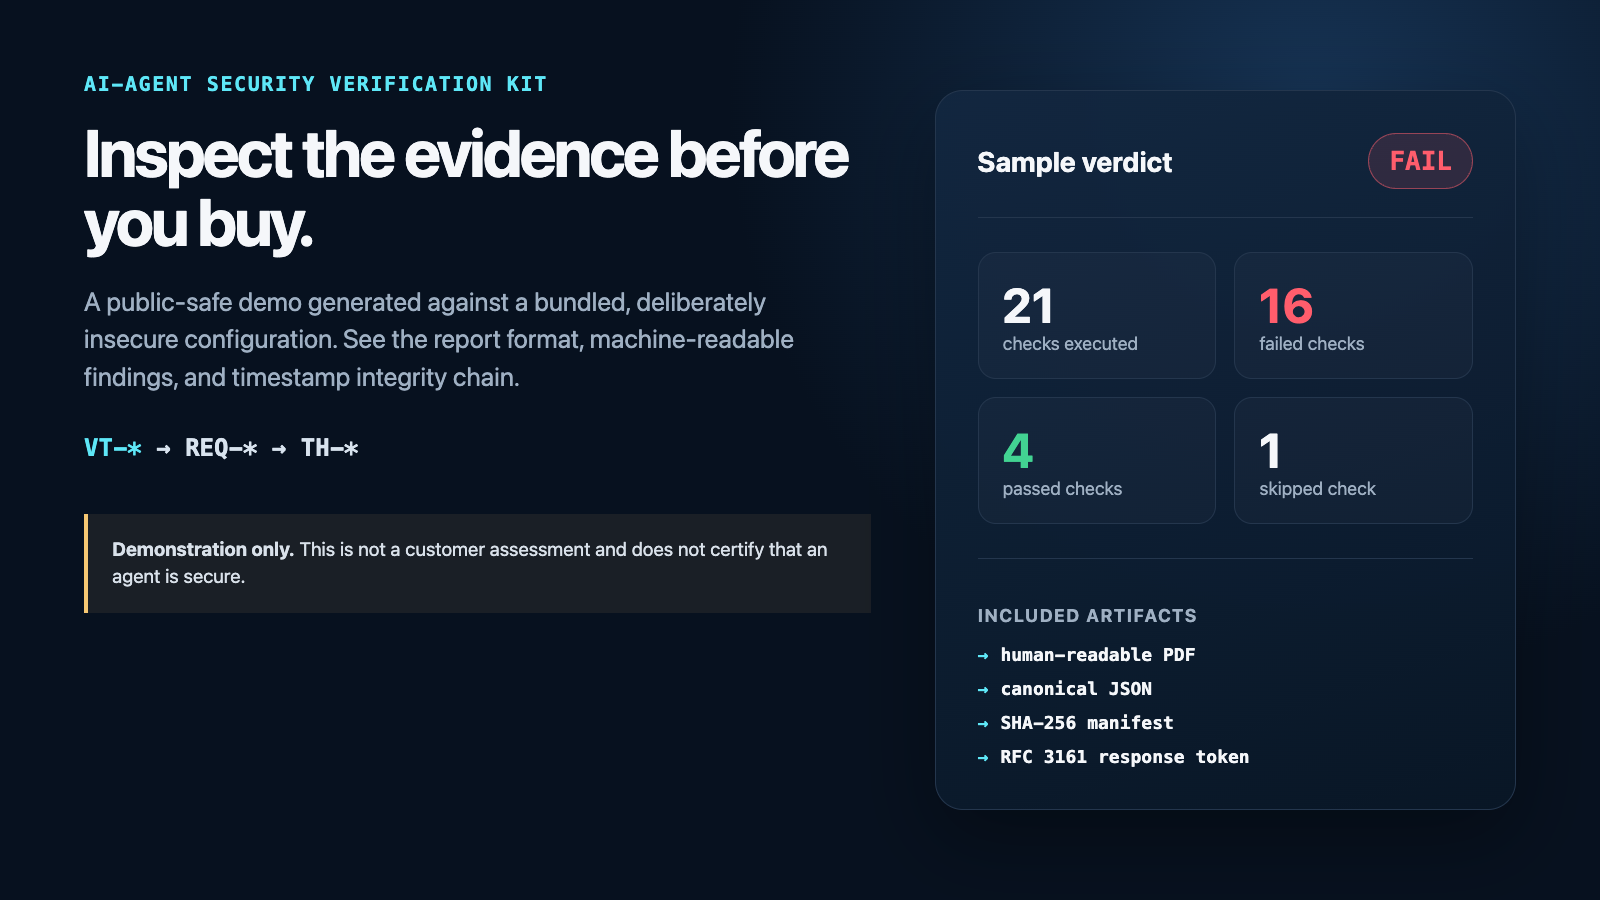
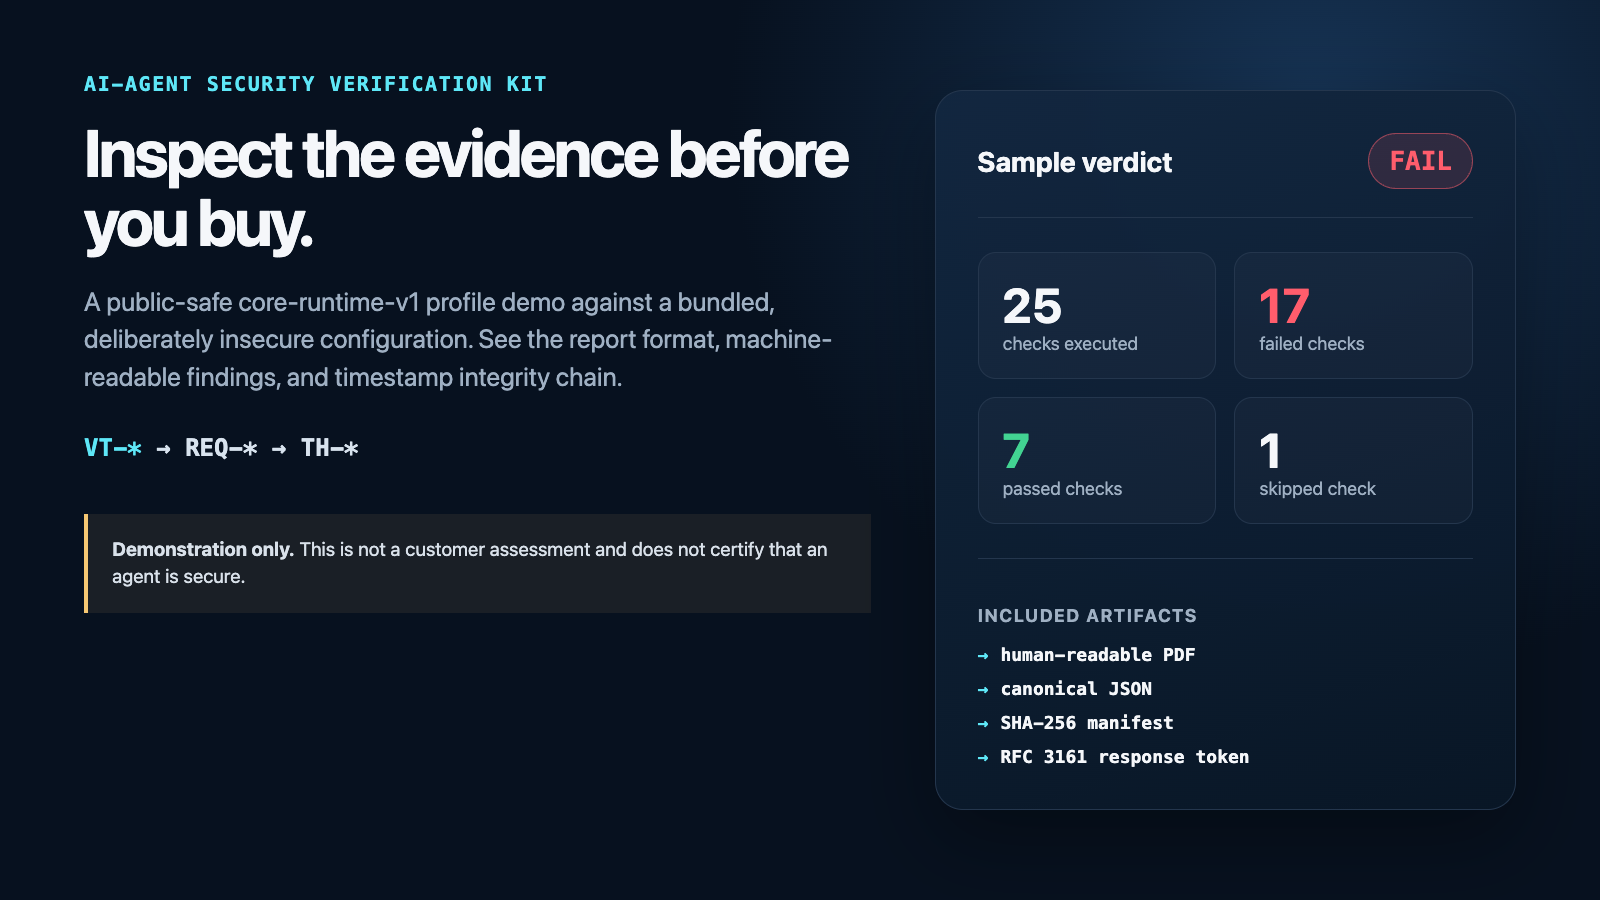
fix: make evidence scope and IDs verifiable

diff --git a/tests/agent-security-reference.test.ts b/tests/agent-security-reference.test.ts
@@ -41,7 +41,7 @@ describe('AI Agent Security Reference Hub', () => {
   it('publishes the verified sample archive and manifest references', () => {
     const zipPath = join(root, 'public/agent-security/evidence-demo/AI-Agent-Security-Sample-Evidence.zip');
     const digest = createHash('sha256').update(readFileSync(zipPath)).digest('hex');
[2 lines of base64/hex data omitted]
 
     const names = execFileSync('unzip', ['-Z1', zipPath], { encoding: 'utf8' });
     expect(names).toContain('sample-evidence-fail/sample-verification-fail.json');
@@ -52,20 +52,20 @@ describe('AI Agent Security Reference Hub', () => {
     const jsonBytes = execFileSync('unzip', ['-p', zipPath, 'sample-evidence-fail/sample-verification-fail.json']);
     const artifact = JSON.parse(jsonBytes.toString('utf8'));
     const ids = artifact.results.map((result: { id: string }) => result.id);
-    expect(ids).toHaveLength(21);
-    expect(new Set(ids).size).toBe(21);
-    expect(artifact.summary.counts).toEqual({ PASS: 4, FAIL: 16, SKIP: 1, ERROR: 0 });
+    expect(ids).toHaveLength(25);
+    expect(new Set(ids).size).toBe(25);
+    expect(artifact.summary.counts).toEqual({ PASS: 7, FAIL: 17, SKIP: 1, ERROR: 0 });
 
     const byTitle = new Map(artifact.results.map((result: { title: string }) => [result.title, result]));
-    expect(byTitle.get("Code tool 'shell' runs sandboxed")).toMatchObject({ id: 'VT-S-012B-002', requirement: 'REQ-012', threat: 'TH-02' });
-    expect(byTitle.get("High-impact tool 'wire-transfer' approval shows concrete effects")).toMatchObject({ id: 'VT-S-015A-003', requirement: 'REQ-015', threat: 'TH-02' });
+    expect(byTitle.get("Code tool 'shell' runs sandboxed")).toMatchObject({ id: 'VT-S-012B-SHELL', requirement: 'REQ-012', threat: 'TH-02' });
+    expect(byTitle.get("High-impact tool 'wire-transfer' approval shows concrete effects")).toMatchObject({ id: 'VT-S-015A-WIRE-TRANSFER', requirement: 'REQ-015', threat: 'TH-02' });
     expect(byTitle.get('Memory writes are privileged and reversible')).toMatchObject({ id: 'VT-S-022', requirement: 'REQ-022', threat: 'TH-04' });
     expect(byTitle.get('Webhook rejects a tampered body')).toMatchObject({ id: 'VT-D-011B', requirement: 'REQ-011', threat: 'TH-02' });
 
     const manifestText = execFileSync('unzip', ['-p', zipPath, 'sample-evidence-fail/sample-verification-fail.manifest.json'], { encoding: 'utf8' });
     const manifest = JSON.parse(manifestText);
     const jsonDigest = createHash('sha256').update(jsonBytes).digest('hex');
[2 lines of base64/hex data omitted]
     expect(manifest.report_json_sha256).toBe(jsonDigest);
     expect(manifest.report_json).toBe('sample-verification-fail.json');
     expect(manifest.timestamp.token_file).toBe('sample-verification-fail.tsr');
@@ -73,6 +73,9 @@ describe('AI Agent Security Reference Hub', () => {
     const readme = execFileSync('unzip', ['-p', zipPath, 'sample-evidence-fail/README.md'], { encoding: 'utf8' });
     expect(readme).toContain('Input configuration: not included');
     expect(readme).toContain('not a customer assessment');
+    expect(readme).toContain('core-runtime-v1');
+    expect(readme).toContain('https://freetsa.org/files/cacert.pem');
[1 lines of base64/hex data omitted]
   });
 
   it('keeps the checklist downloadable and local-only', () => {

diff --git a/src/assets/agent-security-evidence/findings.html b/src/assets/agent-security-evidence/findings.html
@@ -1,1 +1,1 @@
-<!doctype html><html lang="en"><head><meta charset="utf-8"><meta name="viewport" content="width=device-width,initial-scale=1"><title>Finding Traceability</title><style>:root{--bg:#07111f;--panel:#0d1b2d;--line:#24364d;--text:#f5f7fa;--muted:#9fb0c3;--fail:#ff5d6c;--cyan:#5ee7f7}*{box-sizing:border-box}body{margin:0;width:1600px;height:900px;background:linear-gradient(145deg,#06101d,#0d2036);color:var(--text);font-family:-apple-system,BlinkMacSystemFont,"Segoe UI",sans-serif;overflow:hidden}.wrap{padding:58px 72px}.eyebrow{color:var(--cyan);font:700 18px ui-monospace,SFMono-Regular,Menlo,monospace;letter-spacing:.08em;text-transform:uppercase}.top{display:flex;justify-content:space-between;align-items:end;margin:14px 0 34px}.top h1{font-size:52px;letter-spacing:-.035em;margin:0}.top p{color:var(--muted);font-size:20px;margin:0 0 5px}.table{border:1px solid var(--line);border-radius:20px;overflow:hidden;background:rgba(8,22,39,.8)}.row{display:grid;grid-template-columns:145px 115px 145px 145px 1fr;align-items:center;min-height:94px;border-bottom:1px solid var(--line)}.row:last-child{border-bottom:none}.row>div{padding:18px 20px}.head{min-height:58px;background:#132943;color:var(--muted);font:700 15px ui-monospace,SFMono-Regular,Menlo,monospace;text-transform:uppercase;letter-spacing:.06em}.mono{font:700 17px ui-monospace,SFMono-Regular,Menlo,monospace}.status{display:inline-block;color:var(--fail);background:rgba(255,93,108,.12);border:1px solid rgba(255,93,108,.45);padding:7px 12px;border-radius:999px}.finding strong{display:block;font-size:19px;margin-bottom:6px}.finding span{color:var(--muted);font-size:15px}.foot{display:flex;justify-content:space-between;margin-top:26px;color:var(--muted);font-size:17px}.foot b{color:var(--cyan)}</style></head><body><main class="wrap"><div class="eyebrow">Machine-readable finding traceability</div><div class="top"><h1>From a failed check to the threat it addresses.</h1><p>Excerpt from the canonical JSON result</p></div><section class="table"><div class="row head"><div>Test</div><div>Verdict</div><div>Requirement</div><div>Threat</div><div>Finding</div></div><div class="row"><div class="mono">VT-S-001</div><div><span class="status">FAIL</span></div><div class="mono">REQ-001</div><div class="mono">TH-05</div><div class="finding"><strong>Agent identity is distinct from the human</strong><span>agent is not marked distinct_from_human</span></div></div><div class="row"><div class="mono">VT-S-003B</div><div><span class="status">FAIL</span></div><div class="mono">REQ-003</div><div class="mono">TH-05</div><div class="finding"><strong>Agent credential scope is minimized</strong><span>scopes are unset, empty, or include a wildcard '*'</span></div></div><div class="row"><div class="mono">VT-S-051B</div><div><span class="status">FAIL</span></div><div class="mono">REQ-051</div><div class="mono">TH-06</div><div class="finding"><strong>Delegate scope is a subset of the parent</strong><span>delegation may create a privilege-laundering path</span></div></div><div class="row"><div class="mono">VT-S-012A-001</div><div><span class="status">FAIL</span></div><div class="mono">REQ-012</div><div class="mono">TH-08</div><div class="finding"><strong>Network tool has an egress allowlist</strong><span>network-capable tool has no declared allowlist</span></div></div></section><div class="foot"><span>Each result keeps stable identifiers for review and re-testing.</span><span><b>VT</b> → REQ → TH</span></div></main></body></html>
+<!doctype html><html lang="en"><head><meta charset="utf-8"><meta name="viewport" content="width=device-width,initial-scale=1"><title>Finding Traceability</title><style>:root{--bg:#07111f;--panel:#0d1b2d;--line:#24364d;--text:#f5f7fa;--muted:#9fb0c3;--fail:#ff5d6c;--cyan:#5ee7f7}*{box-sizing:border-box}body{margin:0;width:1600px;height:900px;background:linear-gradient(145deg,#06101d,#0d2036);color:var(--text);font-family:-apple-system,BlinkMacSystemFont,"Segoe UI",sans-serif;overflow:hidden}.wrap{padding:58px 72px}.eyebrow{color:var(--cyan);font:700 18px ui-monospace,SFMono-Regular,Menlo,monospace;letter-spacing:.08em;text-transform:uppercase}.top{display:flex;justify-content:space-between;align-items:end;margin:14px 0 34px}.top h1{font-size:52px;letter-spacing:-.035em;margin:0}.top p{color:var(--muted);font-size:20px;margin:0 0 5px}.table{border:1px solid var(--line);border-radius:20px;overflow:hidden;background:rgba(8,22,39,.8)}.row{display:grid;grid-template-columns:145px 115px 145px 145px 1fr;align-items:center;min-height:94px;border-bottom:1px solid var(--line)}.row:last-child{border-bottom:none}.row>div{padding:18px 20px}.head{min-height:58px;background:#132943;color:var(--muted);font:700 15px ui-monospace,SFMono-Regular,Menlo,monospace;text-transform:uppercase;letter-spacing:.06em}.mono{font:700 17px ui-monospace,SFMono-Regular,Menlo,monospace}.status{display:inline-block;color:var(--fail);background:rgba(255,93,108,.12);border:1px solid rgba(255,93,108,.45);padding:7px 12px;border-radius:999px}.finding strong{display:block;font-size:19px;margin-bottom:6px}.finding span{color:var(--muted);font-size:15px}.foot{display:flex;justify-content:space-between;margin-top:26px;color:var(--muted);font-size:17px}.foot b{color:var(--cyan)}</style></head><body><main class="wrap"><div class="eyebrow">Machine-readable finding traceability</div><div class="top"><h1>From a failed check to the threat it addresses.</h1><p>Excerpt from the canonical JSON result</p></div><section class="table"><div class="row head"><div>Test</div><div>Verdict</div><div>Requirement</div><div>Threat</div><div>Finding</div></div><div class="row"><div class="mono">VT-S-001</div><div><span class="status">FAIL</span></div><div class="mono">REQ-001</div><div class="mono">TH-05</div><div class="finding"><strong>Agent identity is distinct from the human</strong><span>agent is not marked distinct_from_human</span></div></div><div class="row"><div class="mono">VT-S-003B</div><div><span class="status">FAIL</span></div><div class="mono">REQ-003</div><div class="mono">TH-05</div><div class="finding"><strong>Agent credential scope is minimized</strong><span>scopes are unset, empty, or include a wildcard '*'</span></div></div><div class="row"><div class="mono">VT-S-051B</div><div><span class="status">FAIL</span></div><div class="mono">REQ-051</div><div class="mono">TH-06</div><div class="finding"><strong>Delegate scope is a subset of the parent</strong><span>delegation may create a privilege-laundering path</span></div></div><div class="row"><div class="mono">VT-S-012A-WEB-FETCH</div><div><span class="status">FAIL</span></div><div class="mono">REQ-012</div><div class="mono">TH-08</div><div class="finding"><strong>Network tool has an egress allowlist</strong><span>network-capable tool has no declared allowlist</span></div></div></section><div class="foot"><span>Each result keeps stable identifiers for review and re-testing.</span><span><b>VT</b> → REQ → TH</span></div></main></body></html>

diff --git a/src/assets/agent-security-evidence/integrity.html b/src/assets/agent-security-evidence/integrity.html
@@ -1,1 +1,1 @@
-<!doctype html><html lang="en"><head><meta charset="utf-8"><meta name="viewport" content="width=device-width,initial-scale=1"><title>Integrity Chain</title><style>:root{--bg:#07111f;--panel:#0d1b2d;--line:#29415e;--text:#f5f7fa;--muted:#9fb0c3;--cyan:#5ee7f7;--green:#42d392;--amber:#f7c873}*{box-sizing:border-box}body{margin:0;width:1600px;height:900px;background:radial-gradient(circle at 20% 10%,#173957 0,#07111f 42%);color:var(--text);font-family:-apple-system,BlinkMacSystemFont,"Segoe UI",sans-serif;overflow:hidden}.wrap{padding:66px 76px}.eyebrow{color:var(--cyan);font:700 18px ui-monospace,SFMono-Regular,Menlo,monospace;letter-spacing:.08em;text-transform:uppercase}.top{display:flex;justify-content:space-between;align-items:end;margin:16px 0 52px}.top h1{font-size:54px;letter-spacing:-.035em;margin:0}.top p{font-size:20px;color:var(--muted);margin:0}.flow{display:grid;grid-template-columns:1fr 90px 1fr 90px 1fr;align-items:stretch}.card{background:linear-gradient(160deg,rgba(17,37,61,.96),rgba(8,20,35,.96));border:1px solid var(--line);border-radius:22px;padding:32px;min-height:310px}.icon{width:54px;height:54px;border:1px solid var(--line);border-radius:15px;display:grid;place-items:center;color:var(--cyan);font:800 23px ui-monospace,SFMono-Regular,Menlo,monospace}.card h2{font-size:28px;margin:24px 0 12px}.card p{font-size:18px;line-height:1.5;color:var(--muted)}.mono{font:600 14px/1.55 ui-monospace,SFMono-Regular,Menlo,monospace;color:#dbe7f2;word-break:break-all;background:#081523;padding:15px;border-radius:12px;border:1px solid #1e344c}.arrow{display:grid;place-items:center;color:var(--cyan);font-size:42px}.ok{margin-top:42px;border:1px solid rgba(66,211,146,.45);background:rgba(66,211,146,.08);border-radius:18px;padding:23px 28px;display:flex;justify-content:space-between;align-items:center}.ok strong{color:var(--green);font-size:22px}.ok span{color:var(--muted);font-size:17px}.limit{margin-top:22px;color:var(--muted);font-size:16px}.limit b{color:var(--amber)}</style></head><body><main class="wrap"><div class="eyebrow">Tamper-evident artifact chain</div><div class="top"><h1>The result, its digest, and its timestamp agree.</h1><p>RFC 3161 response status: granted</p></div><section class="flow"><article class="card"><div class="icon">01</div><h2>Canonical JSON</h2><p>The machine-readable source of truth for all 21 results.</p><div class="mono">sample-verification-fail.json</div></article><div class="arrow">→</div><article class="card"><div class="icon">02</div><h2>SHA-256 manifest</h2><p>The manifest records the digest of the canonical JSON.</p><div class="mono">2df559f00240917ed97ecdb35a8b1e6f4482e62bacc750314b5b466c5384624f</div></article><div class="arrow">→</div><article class="card"><div class="icon">03</div><h2>RFC 3161 token</h2><p>The timestamp response contains the same message imprint.</p><div class="mono">Granted<br>2026-07-16 03:21:03 UTC</div></article></section><div class="ok"><strong>✓ Verified against the included canonical JSON</strong><span>JSON digest = manifest digest = timestamp imprint</span></div><div class="limit"><b>Scope:</b> This demonstrates artifact integrity and timing. It does not certify that an agent is secure.</div></main></body></html>
+<!doctype html><html lang="en"><head><meta charset="utf-8"><meta name="viewport" content="width=device-width,initial-scale=1"><title>Integrity Chain</title><style>:root{--bg:#07111f;--panel:#0d1b2d;--line:#29415e;--text:#f5f7fa;--muted:#9fb0c3;--cyan:#5ee7f7;--green:#42d392;--amber:#f7c873}*{box-sizing:border-box}body{margin:0;width:1600px;height:900px;background:radial-gradient(circle at 20% 10%,#173957 0,#07111f 42%);color:var(--text);font-family:-apple-system,BlinkMacSystemFont,"Segoe UI",sans-serif;overflow:hidden}.wrap{padding:66px 76px}.eyebrow{color:var(--cyan);font:700 18px ui-monospace,SFMono-Regular,Menlo,monospace;letter-spacing:.08em;text-transform:uppercase}.top{display:flex;justify-content:space-between;align-items:end;margin:16px 0 52px}.top h1{font-size:54px;letter-spacing:-.035em;margin:0}.top p{font-size:20px;color:var(--muted);margin:0}.flow{display:grid;grid-template-columns:1fr 90px 1fr 90px 1fr;align-items:stretch}.card{background:linear-gradient(160deg,rgba(17,37,61,.96),rgba(8,20,35,.96));border:1px solid var(--line);border-radius:22px;padding:32px;min-height:310px}.icon{width:54px;height:54px;border:1px solid var(--line);border-radius:15px;display:grid;place-items:center;color:var(--cyan);font:800 23px ui-monospace,SFMono-Regular,Menlo,monospace}.card h2{font-size:28px;margin:24px 0 12px}.card p{font-size:18px;line-height:1.5;color:var(--muted)}.mono{font:600 14px/1.55 ui-monospace,SFMono-Regular,Menlo,monospace;color:#dbe7f2;word-break:break-all;background:#081523;padding:15px;border-radius:12px;border:1px solid #1e344c}.arrow{display:grid;place-items:center;color:var(--cyan);font-size:42px}.ok{margin-top:42px;border:1px solid rgba(66,211,146,.45);background:rgba(66,211,146,.08);border-radius:18px;padding:23px 28px;display:flex;justify-content:space-between;align-items:center}.ok strong{color:var(--green);font-size:22px}.ok span{color:var(--muted);font-size:17px}.limit{margin-top:22px;color:var(--muted);font-size:16px}.limit b{color:var(--amber)}</style></head><body><main class="wrap"><div class="eyebrow">Tamper-evident artifact chain</div><div class="top"><h1>The result, its digest, and its timestamp agree.</h1><p>RFC 3161 response status: granted</p></div><section class="flow"><article class="card"><div class="icon">01</div><h2>Canonical JSON</h2><p>The machine-readable source of truth for all 25 results.</p><div class="mono">sample-verification-fail.json</div></article><div class="arrow">→</div><article class="card"><div class="icon">02</div><h2>SHA-256 manifest</h2><p>The manifest records the digest of the canonical JSON.</p><div class="mono">5c571e0a1dc2bd5288edea738ae1dde615eaca0537b50948bc5df9989e9ed79a</div></article><div class="arrow">→</div><article class="card"><div class="icon">03</div><h2>RFC 3161 token</h2><p>The timestamp response contains the same message imprint.</p><div class="mono">Granted<br>2026-07-16 03:55:07 UTC</div></article></section><div class="ok"><strong>✓ Verified against the included canonical JSON</strong><span>JSON digest = manifest digest = timestamp imprint</span></div><div class="limit"><b>Scope:</b> This demonstrates artifact integrity and timing. It does not certify that an agent is secure.</div></main></body></html>

diff --git a/src/assets/agent-security-evidence/overview.html b/src/assets/agent-security-evidence/overview.html
@@ -9,4 +9,4 @@
 *{box-sizing:border-box}body{margin:0;width:1600px;height:900px;background:radial-gradient(circle at 82% 12%,#163354 0,#07111f 38%),var(--bg);color:var(--text);font-family:-apple-system,BlinkMacSystemFont,"Segoe UI",sans-serif;overflow:hidden}.wrap{height:100%;padding:72px 84px;display:grid;grid-template-columns:1.15fr .85fr;gap:64px}.eyebrow{color:var(--cyan);font:700 20px ui-monospace,SFMono-Regular,Menlo,monospace;letter-spacing:.08em;text-transform:uppercase}.title{font-size:66px;line-height:1.05;margin:22px 0 24px;letter-spacing:-.04em;max-width:850px}.sub{font-size:26px;line-height:1.45;color:var(--muted);max-width:780px}.chain{margin-top:38px;font:600 24px ui-monospace,SFMono-Regular,Menlo,monospace;color:#d8e3ee}.chain b{color:var(--cyan)}.note{margin-top:52px;padding:22px 24px;border-left:4px solid var(--amber);background:rgba(247,200,115,.08);color:#d9e1ea;font-size:19px;line-height:1.45}.panel{align-self:center;background:linear-gradient(160deg,rgba(18,39,64,.96),rgba(9,22,38,.96));border:1px solid var(--line);border-radius:28px;padding:42px;box-shadow:0 30px 80px rgba(0,0,0,.35)}.verdict{display:flex;justify-content:space-between;align-items:center;border-bottom:1px solid var(--line);padding-bottom:28px}.verdict h2{margin:0;font-size:28px}.badge{background:rgba(255,93,108,.13);border:1px solid rgba(255,93,108,.5);color:var(--fail);font:800 26px ui-monospace,SFMono-Regular,Menlo,monospace;padding:12px 20px;border-radius:999px}.counts{display:grid;grid-template-columns:repeat(2,1fr);gap:18px;margin:34px 0}.count{border:1px solid var(--line);background:rgba(255,255,255,.025);padding:24px;border-radius:18px}.count strong{display:block;font-size:48px}.count span{font-size:18px;color:var(--muted)}.count.fail strong{color:var(--fail)}.count.pass strong{color:var(--pass)}.files{border-top:1px solid var(--line);padding-top:28px}.files h3{font-size:18px;color:var(--muted);text-transform:uppercase;letter-spacing:.08em}.files ul{list-style:none;padding:0;margin:14px 0 0;display:grid;gap:13px}.files li{font:600 18px ui-monospace,SFMono-Regular,Menlo,monospace}.files li:before{content:"→";color:var(--cyan);margin-right:12px}
 </style>
 </head>
-<body><main class="wrap"><section><div class="eyebrow">AI-Agent Security Verification Kit</div><h1 class="title">Inspect the evidence before you buy.</h1><p class="sub">A public-safe demo generated against a bundled, deliberately insecure configuration. See the report format, machine-readable findings, and timestamp integrity chain.</p><div class="chain"><b>VT-*</b> → REQ-* → TH-*</div><div class="note"><strong>Demonstration only.</strong> This is not a customer assessment and does not certify that an agent is secure.</div></section><aside class="panel"><div class="verdict"><h2>Sample verdict</h2><div class="badge">FAIL</div></div><div class="counts"><div class="count"><strong>21</strong><span>checks executed</span></div><div class="count fail"><strong>16</strong><span>failed checks</span></div><div class="count pass"><strong>4</strong><span>passed checks</span></div><div class="count"><strong>1</strong><span>skipped check</span></div></div><div class="files"><h3>Included artifacts</h3><ul><li>human-readable PDF</li><li>canonical JSON</li><li>SHA-256 manifest</li><li>RFC 3161 response token</li></ul></div></aside></main></body></html>
+<body><main class="wrap"><section><div class="eyebrow">AI-Agent Security Verification Kit</div><h1 class="title">Inspect the evidence before you buy.</h1><p class="sub">A public-safe core-runtime-v1 profile demo against a bundled, deliberately insecure configuration. See the report format, machine-readable findings, and timestamp integrity chain.</p><div class="chain"><b>VT-*</b> → REQ-* → TH-*</div><div class="note"><strong>Demonstration only.</strong> This is not a customer assessment and does not certify that an agent is secure.</div></section><aside class="panel"><div class="verdict"><h2>Sample verdict</h2><div class="badge">FAIL</div></div><div class="counts"><div class="count"><strong>25</strong><span>checks executed</span></div><div class="count fail"><strong>17</strong><span>failed checks</span></div><div class="count pass"><strong>7</strong><span>passed checks</span></div><div class="count"><strong>1</strong><span>skipped check</span></div></div><div class="files"><h3>Included artifacts</h3><ul><li>human-readable PDF</li><li>canonical JSON</li><li>SHA-256 manifest</li><li>RFC 3161 response token</li></ul></div></aside></main></body></html>

diff --git a/src/data/agent-security.ts b/src/data/agent-security.ts
@@ -73,5 +73,5 @@ export const sampleFindings = [
   { id: 'VT-S-001', req: 'REQ-001', threat: 'TH-05', status: 'FAIL', title: 'Agent identity is distinct from the human' },
   { id: 'VT-S-003B', req: 'REQ-003', threat: 'TH-05', status: 'FAIL', title: 'Agent credential scope is minimized' },
   { id: 'VT-S-051B', req: 'REQ-051', threat: 'TH-06', status: 'FAIL', title: 'Delegate scope is a subset of the parent' },
-  { id: 'VT-S-012A-001', req: 'REQ-012', threat: 'TH-08', status: 'FAIL', title: 'Network tool has an egress allowlist' },
+  { id: 'VT-S-012A-WEB-FETCH', req: 'REQ-012', threat: 'TH-08', status: 'FAIL', title: 'Network tool has an egress allowlist' },
 ] as const;

diff --git a/src/styles/agent-security.css b/src/styles/agent-security.css
@@ -190,6 +190,7 @@
 .as-integrity .as-card { position: relative; }
 .as-integrity .as-card:not(:last-child)::after { content: '>'; position: absolute; right: -32px; top: 50%; color: var(--as-cyan); font-family: var(--font-mono); font-size: 28px; }
 .as-code { overflow-wrap: anywhere; color: #c8e8eb; font-family: var(--font-mono); font-size: 12px; line-height: 1.7; }
+.as-shell code { overflow-wrap: anywhere; word-break: break-word; }
 
 .as-checklist { display: grid; gap: 22px; margin-top: 34px; }
 .as-check-group h2 { font-size: 22px; }

diff --git a/public/agent-security/evidence-demo/README.md b/public/agent-security/evidence-demo/README.md
@@ -4,26 +4,34 @@ This output-only package demonstrates the evidence format produced by the AI-Age
 
 ## Scope
 
+- Verification profile: `core-runtime-v1`, a focused subset of the Field Manual — not full conformance
 - Target: the Kit's bundled, deliberately insecure example configuration
-- Result: 21 checks — 4 PASS / 16 FAIL / 1 SKIP / 0 ERROR
+- Result: 25 checks — 7 PASS / 17 FAIL / 1 SKIP / 0 ERROR
+- Result IDs: unique and stable across tool/MCP array reordering
 - Customer environment: none
 - Input configuration: not included in this public output package
 
-Because the input configuration is not distributed here, this package demonstrates result structure, traceability, and artifact integrity; it is not a reproducibility bundle. The included configuration locator is meaningful only inside the Kit's bundled example tree.
+The profile accounts for every Field Manual SHALL requirement as in scope or explicitly out of scope with a reason. `VT-S-054` verifies that every in-scope SHALL has at least one registered test. Because the input configuration is not distributed here, this package demonstrates result structure, traceability, scope accounting, and artifact integrity; it is not a reproducibility bundle.
 
-## Included artifacts
+## Package contents
+
+Support file:
+
+- `README.md` — this scope, verification, and limitations guide
+
+Evidence artifacts:
 
 - `sample-verification-fail.json` — canonical machine-readable result
-- `sample-verification-fail.pdf` — two-page human-readable report
+- `sample-verification-fail.pdf` — human-readable report
 - `sample-verification-fail.manifest.json` — JSON digest and timestamp metadata
 - `sample-verification-fail.tsr` — RFC 3161 timestamp response
 
-Each result has a unique test ID and maps to a current Field Manual requirement and threat class. Examples include:
+Representative mappings:
 
-- `VT-S-012B-002 → REQ-012 → TH-02` — sandboxed code execution
-- `VT-S-015A-003 → REQ-015 → TH-02` — concrete-effect approval for a high-impact tool
+- `VT-S-012B-SHELL → REQ-012 → TH-02` — sandboxed code execution
+- `VT-S-015A-WIRE-TRANSFER → REQ-015 → TH-02` — concrete-effect approval for a high-impact tool
 - `VT-S-022 → REQ-022 → TH-04` — policy-controlled, provenance-tagged, privileged, reversible memory writes
-- `VT-S-050D-001 → REQ-050 → TH-07` — MCP definition hash, change detection, and re-review gate
+- `VT-S-050D-RANDOM-MCP → REQ-050 → TH-07` — MCP definition hash, change detection, and re-review gate
 
 `VT-S-003D` is SKIP because the bundled target does not select EMA. The Field Manual does not require EMA specifically; another JIT/gateway mechanism may satisfy REQ-003.
 
@@ -31,16 +39,31 @@ Each result has a unique test ID and maps to a current Field Manual requirement 
 
 Canonical JSON SHA-256:
 
[2 lines of base64/hex data omitted]
 
-The RFC 3161 response was granted at `2026-07-16 03:21:03 UTC`. Its SHA-256 message imprint matches the canonical JSON digest. Independent verification still requires a trusted TSA CA certificate:
+The RFC 3161 response was granted at `2026-07-16 03:55:07 UTC`. Its SHA-256 message imprint matches the canonical JSON digest.
+
+Obtain the FreeTSA root certificate from:
+
+`https://freetsa.org/files/cacert.pem`
+
+Expected downloaded-file SHA-256:
+
[1 lines of base64/hex data omitted]
+
+Certificate SHA-256 fingerprint:
+
+`A6:37:9E:7C:EC:C0:5F:AA:3C:BF:07:60:13:D7:45:E3:27:BB:BA:A3:8C:0B:9A:F2:24:69:D4:70:1D:18:AA:BC`
+
+Verify the certificate file before using it, then verify the timestamp:
 
 ```sh
+shasum -a 256 freetsa-cacert.pem
 openssl ts -verify   -data sample-verification-fail.json   -in sample-verification-fail.tsr   -CAfile freetsa-cacert.pem
 ```
 
 ## Limits
 
-This is not a customer assessment, a certificate that an AI agent is secure, a complete security evaluation, or a guarantee that a particular auditor, regulator, customer, or assurance framework will accept the artifacts. A timestamp verifies artifact integrity and time; it does not prove that the test design, scope, or source configuration is correct.
+This is not a customer assessment, full Field Manual conformance, a certificate that an AI agent is secure, a complete security evaluation, or a guarantee that an auditor, regulator, customer, or assurance framework will accept the artifacts. A timestamp verifies artifact integrity and time; it does not prove that the test design, scope, or source configuration is correct.
 
 Reference and walkthrough: https://aoifuture.com/agent-security/evidence-demo/